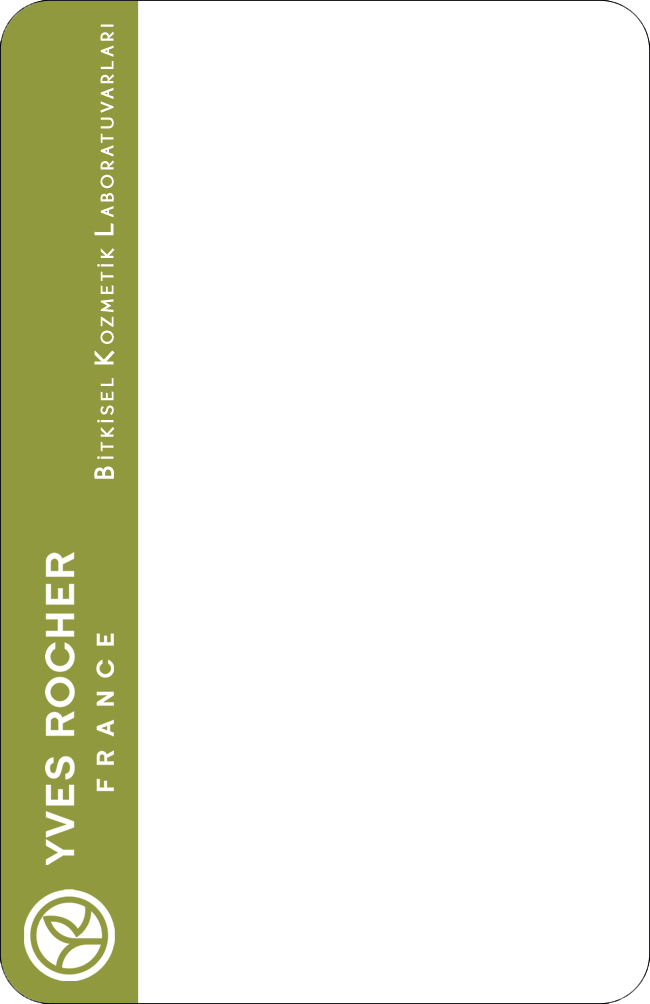
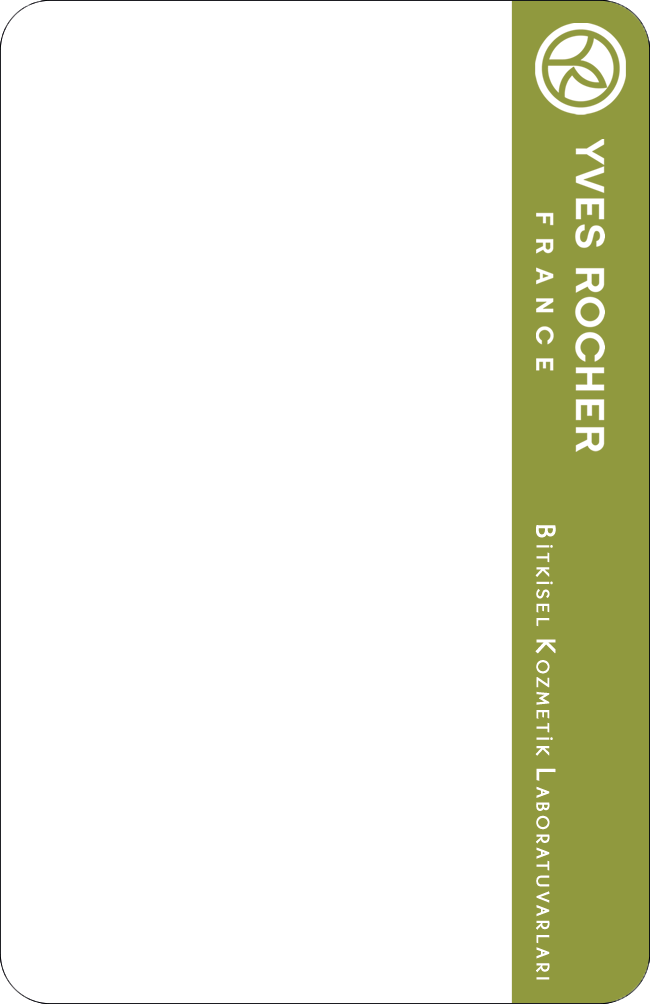
yrcard rotation changes

diff --git a/src/app/app.component.ts b/src/app/app.component.ts
@@ -2,6 +2,7 @@ import { Component, ViewChild } from '@angular/core';
 import { Nav, Platform } from 'ionic-angular';
 import { StatusBar } from '@ionic-native/status-bar';
 import { SplashScreen } from '@ionic-native/splash-screen';
+import { ScreenOrientation } from '@ionic-native/screen-orientation';
 
 import { HomePage } from '../pages/home/home';
 import { ListPage } from '../pages/list/list';
@@ -20,9 +21,9 @@ export class MyApp {
 
   pages: Array<{title: string, component: any}>;
 
-  constructor(public platform: Platform, public statusBar: StatusBar, public splashScreen: SplashScreen) {
+  constructor(public platform: Platform, public statusBar: StatusBar, public splashScreen: SplashScreen,private screenOrientation: ScreenOrientation) {
     this.initializeApp();
-
+    this.screenOrientation.lock(this.screenOrientation.ORIENTATIONS.LANDSCAPE);
     // used for an example of ngFor and navigation
     this.pages = [
       { title: 'Ana Sayfa', component: TabsPage },

diff --git a/src/pages/yrcard/yrcard.scss b/src/pages/yrcard/yrcard.scss
@@ -62,7 +62,7 @@ page-yrcard {
         margin-left: auto;
         margin-right: auto;
         display:block;
-        transform:rotate(-90deg)!important;
+        transform:rotate(90deg)!important;
       }
       #card.flipped {
         transform: rotateY( 180deg );
